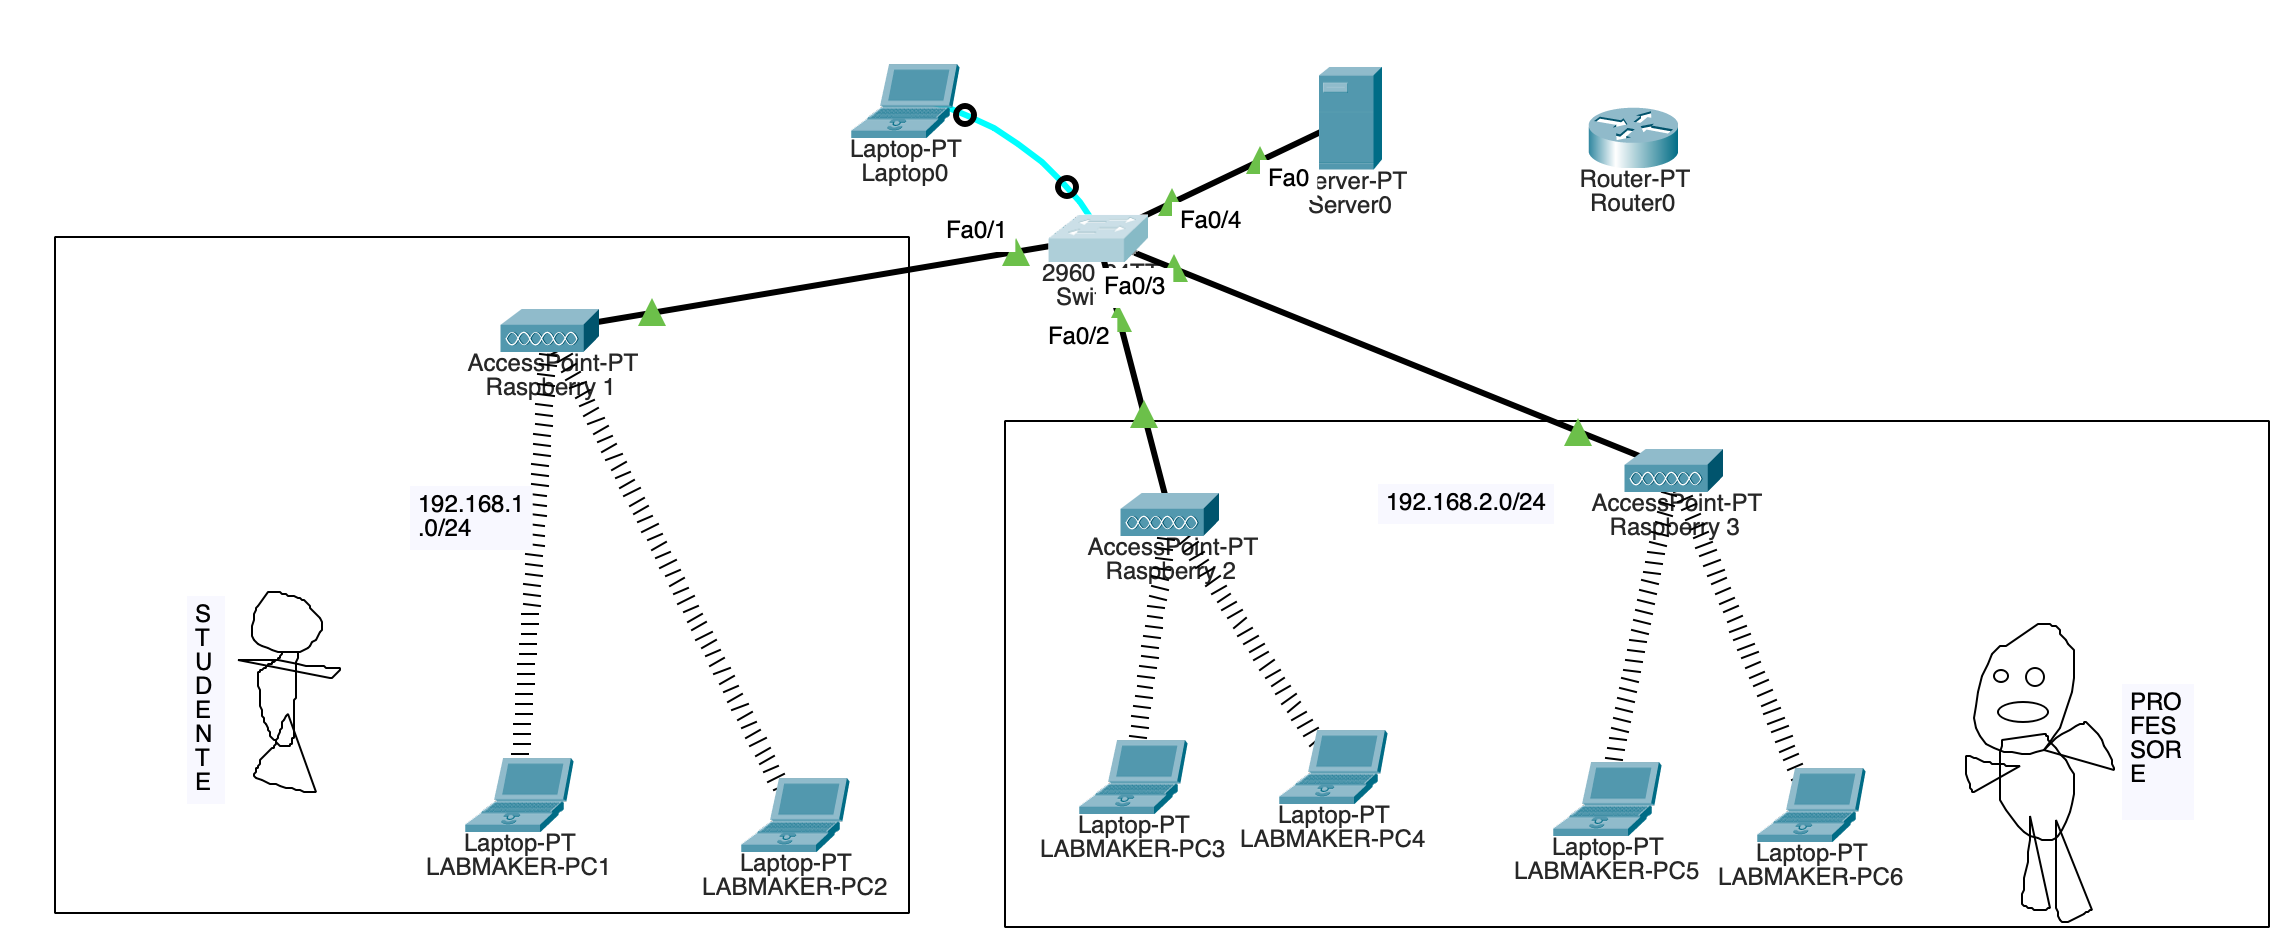
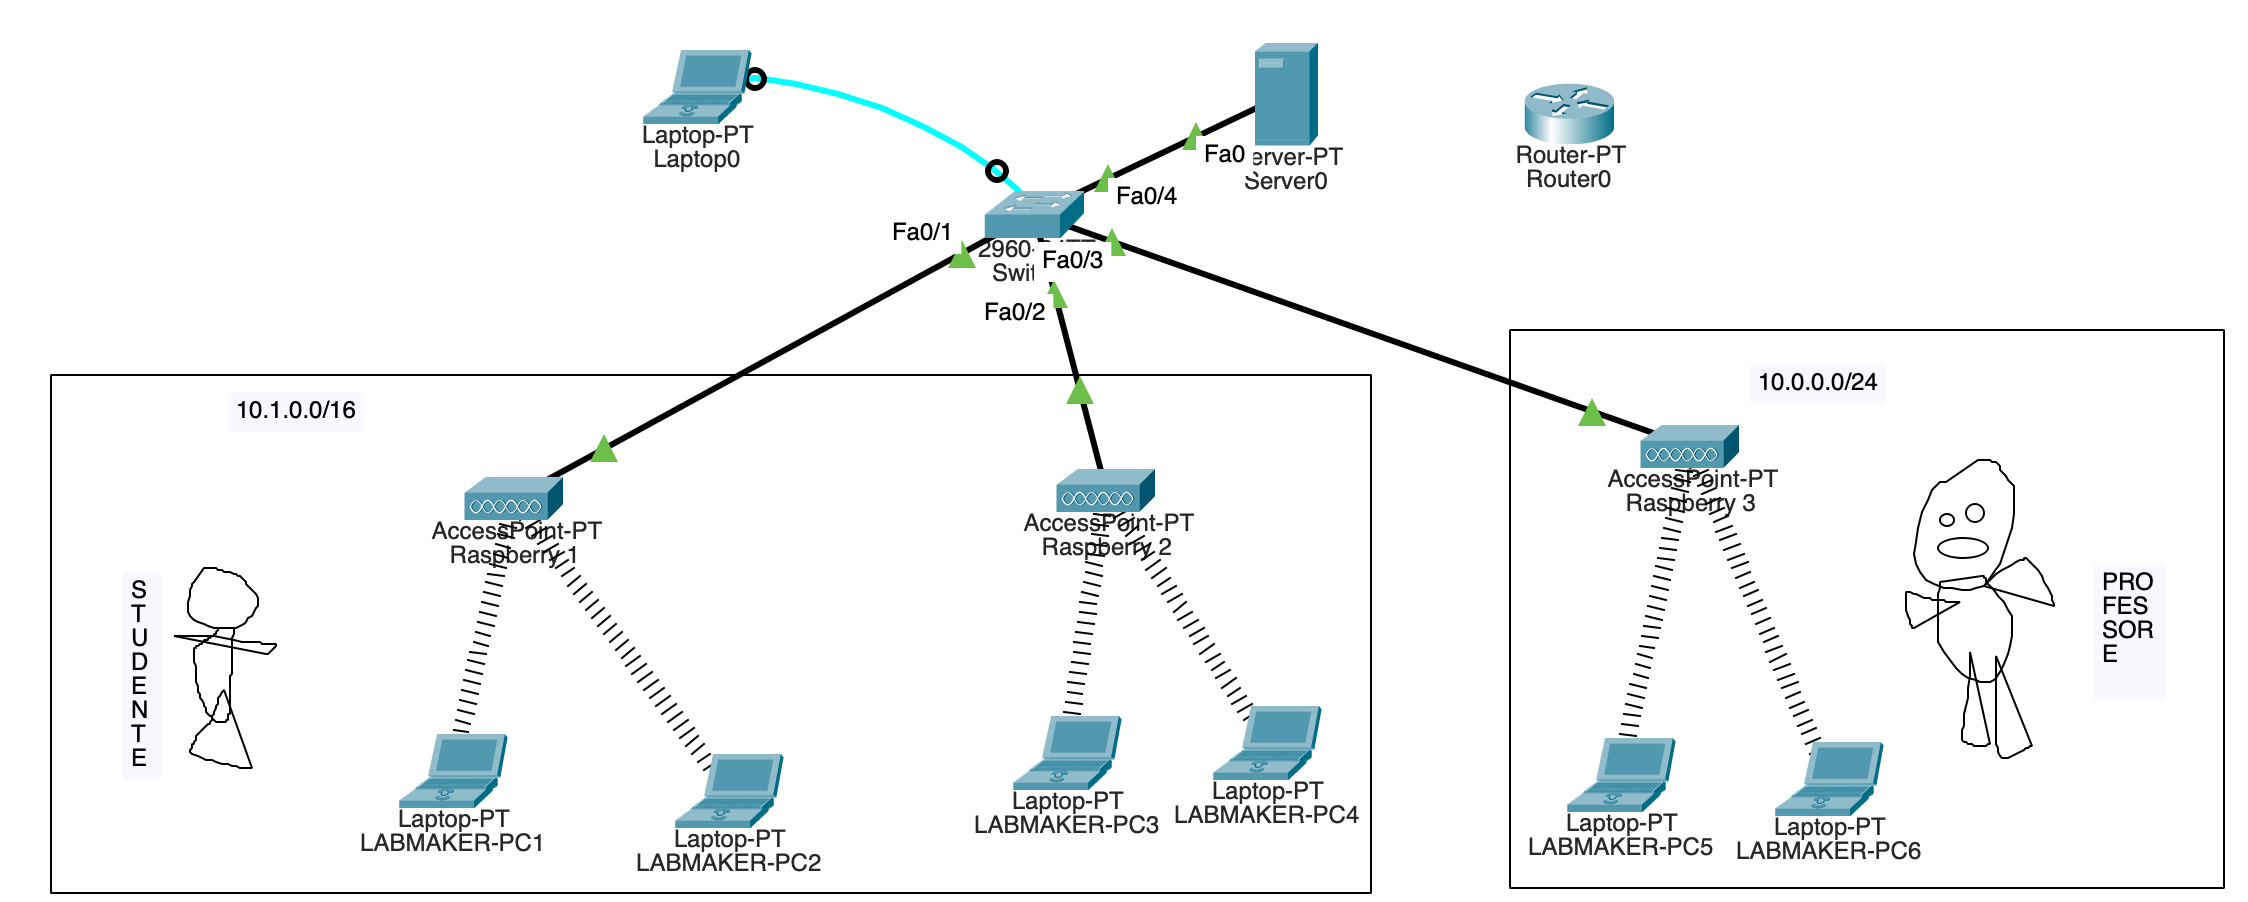
Change subnet

diff --git a/src/switch.md b/src/switch.md
@@ -3,6 +3,7 @@
 Lo switch di base è un oggetto che nel caso più semplice può anche non essere configurato, in quanto mette in comunicazione tutte le porte fra di loro. Se vogliamo creare delle VLAN, però, ci serve una configurazione.
 
 Per configurarlo abbiamo due possibilità:
+
 - ci clicchiamo sopra e andiamo su CLI (comodo ma impossibile nella realtà)
 - lo colleghiamo con un cavo console ad un PC o laptop, quindi andiamo sul computer ed apriamo un "Terminal" seriale (non un command prompt!)
 
@@ -13,8 +14,8 @@ Ipotizziamo la seguente tabella
 |VLAN| Descrizione|
 |-----| -----|
 |VLAN1|Amministrativa|
-|VLAN20|Docenti|
-|VLAN30|Studenti|
+|VLAN10|Docenti|
+|VLAN20|Studenti|
 
 La VLAN1 è già creata di default, quindi non dobbiamo fare niente. Andiamo a creare le altre due.
 
@@ -28,9 +29,9 @@ Switch# configure terminal
 quindi:
 
 ```bash
-Switch(config)#vlan 20
+Switch(config)#vlan 10
 Switch(config-vlan)#exit
-Switch(config)#vlan 30
+Switch(config)#vlan 20
 Switch(config-vlan)#exit
 Switch(config)#
 ```
@@ -40,7 +41,7 @@ Assegniamo ora le VLAN alle porte. Nel nostro caso, vogliamo la seguente situazi
 |Porta| Descrizione|
 |-----| -----|
 |FastEthernet 0/1|Studenti|
-|FastEthernet 0/2|Docenti|
+|FastEthernet 0/2|Studenti|
 |FastEthernet 0/3|Docenti|
 |FastEthernet 0/4|Server DHCP|
 
@@ -50,10 +51,10 @@ Switch(config)#interface FastEthernet 0/1
 Switch(config-if)#switchport access vlan 20
 Switch(config-if)#exit
 Switch(config)#interface FastEthernet 0/2
-Switch(config-if)#switchport access vlan 30
+Switch(config-if)#switchport access vlan 20
 Switch(config-if)#exit
 Switch(config)#interface FastEthernet 0/3
-Switch(config-if)#switchport access vlan 30
+Switch(config-if)#switchport access vlan 10
 ```
 
 Ora dobbiamo configurare la porta che va verso il server DHCP. Da questa porta deve poter passare il traffico di diverse VLAN, si dice quindi in questo caso che è una _porta di trunk_.

diff --git a/src/project.md b/src/project.md
@@ -34,8 +34,8 @@ Nel nostro caso semplificato, possiamo immaginare che docenti e studenti accedan
 
 Ipotizziamo quindi di avere due sottoreti:
 
-- 192.168.1.0/24 per i docenti
-- 192.168.2.0/24 per gli studenti
+- 10.0.0.0/24 per i docenti
+- 10.1.0.0/16 per gli studenti
 
 
 
